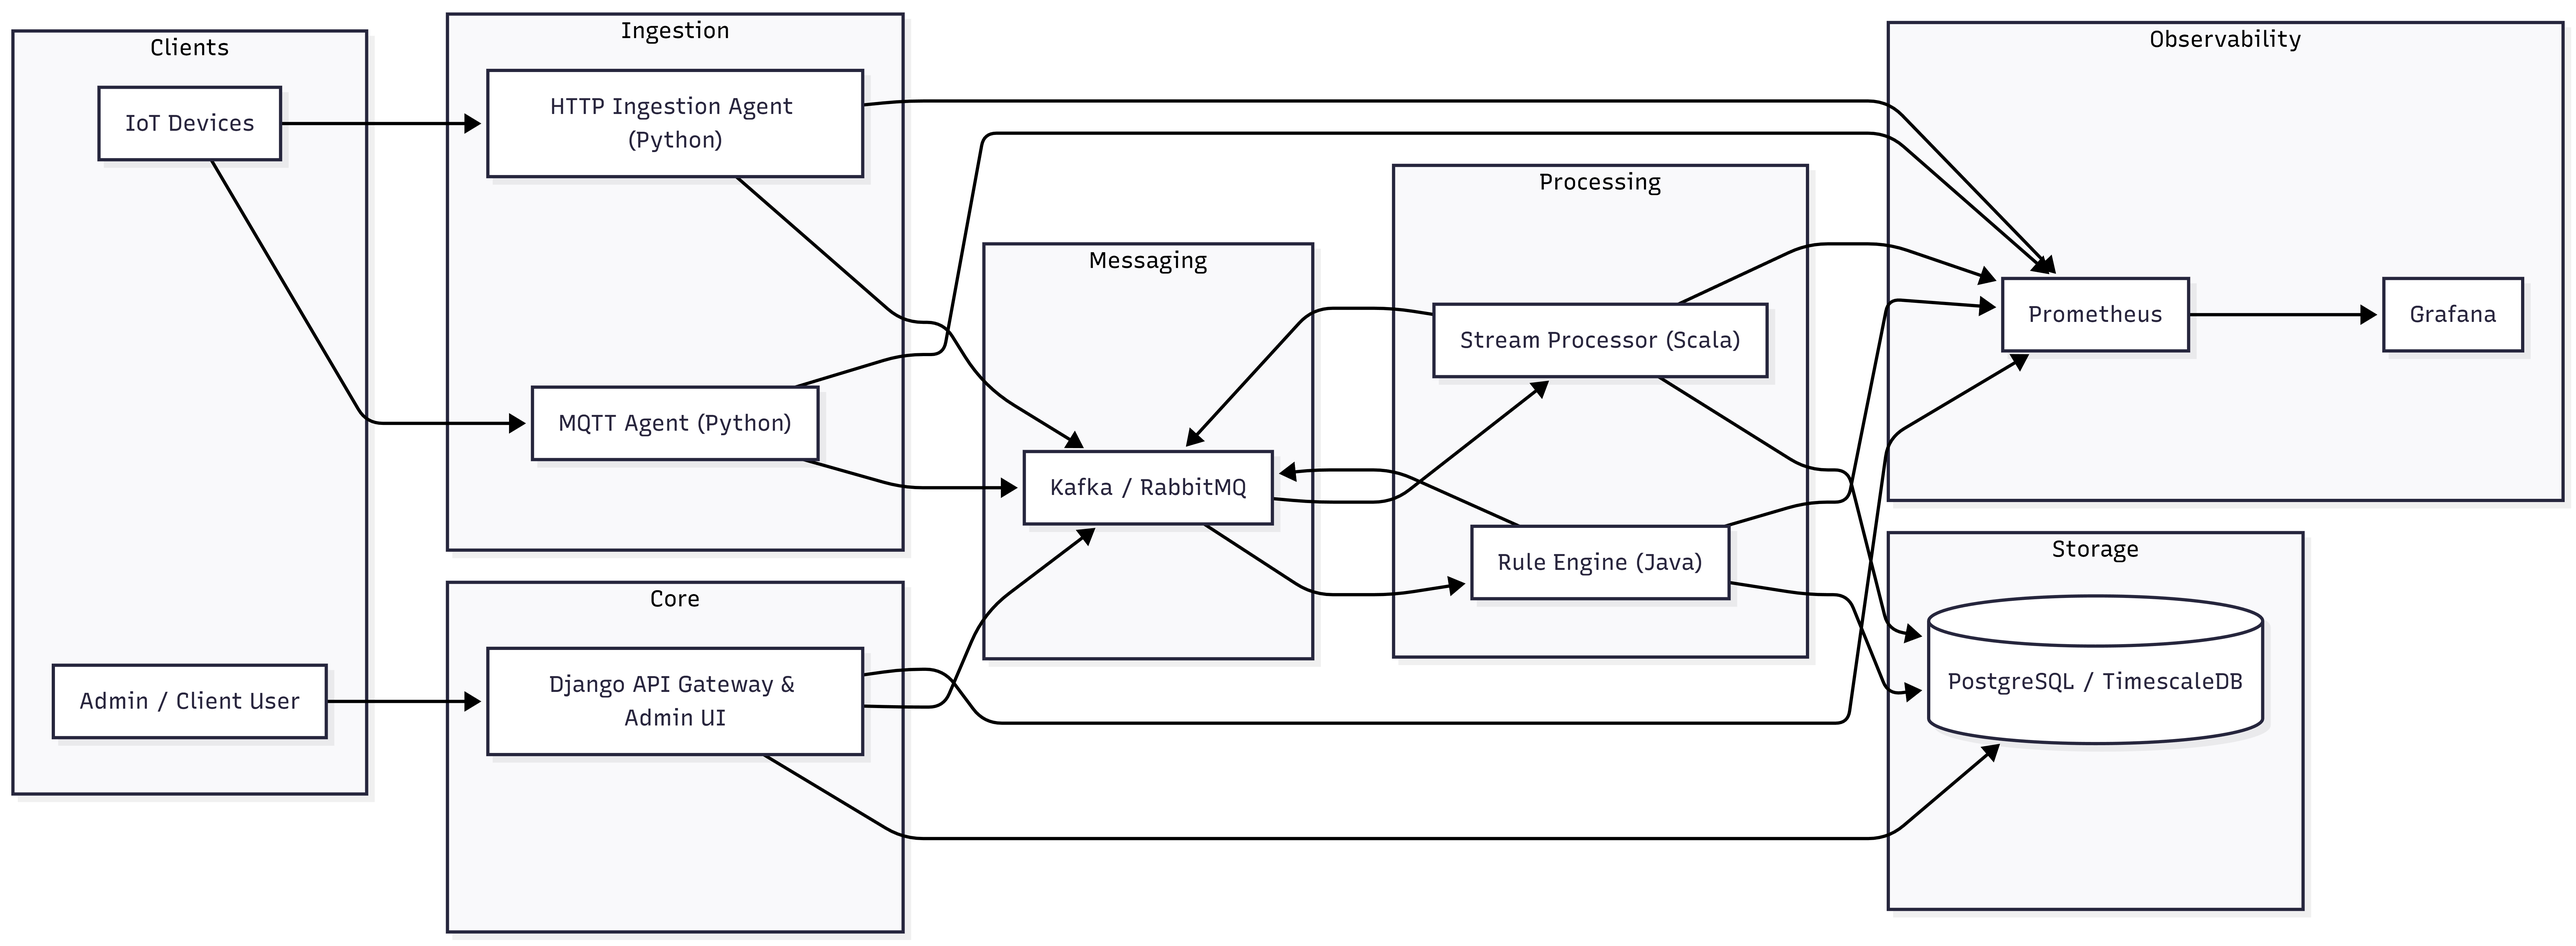
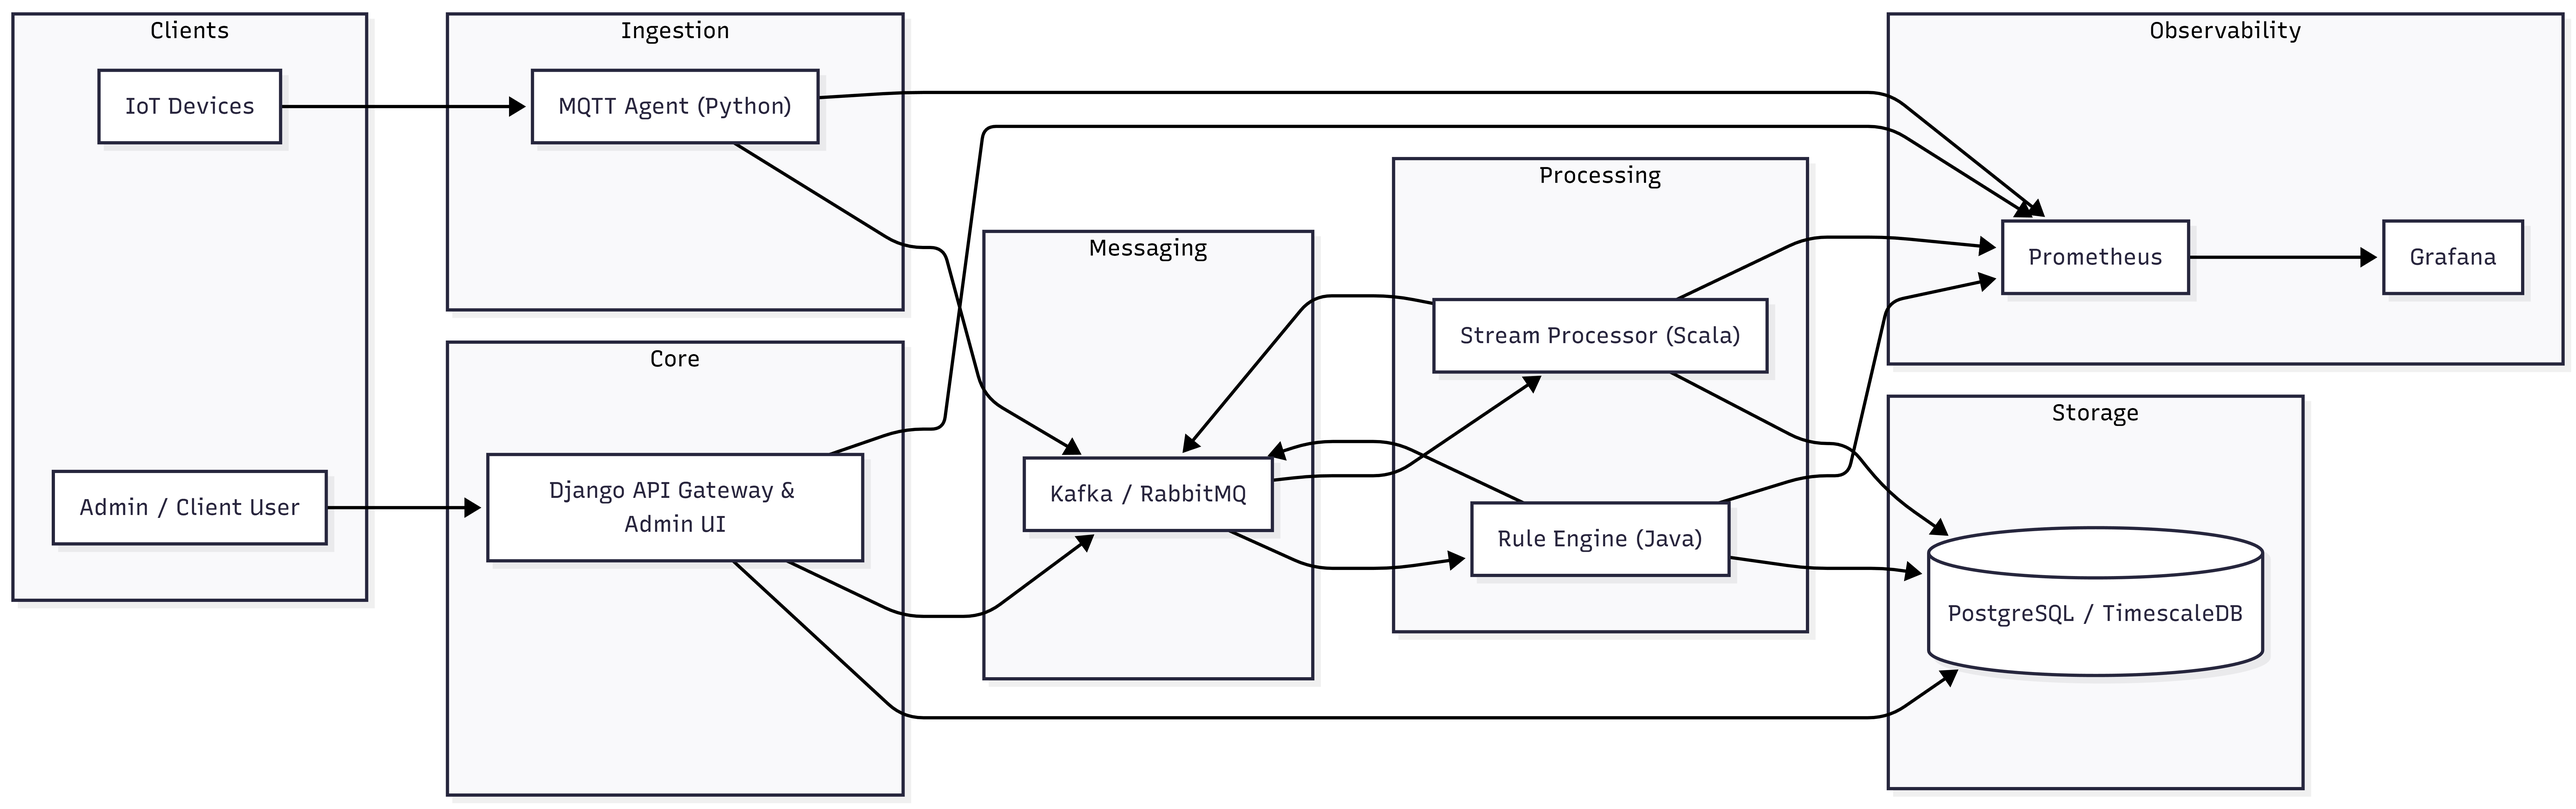
docs and img fix

diff --git a/docs/architecture.md b/docs/architecture.md
@@ -31,11 +31,11 @@ The MVP prioritizes **clarity, debuggability, and local reproducibility** over h
 
 #### Django API Gateway & Admin UI
 
-* Acts as the primary entry point for HTTP clients
+* Acts as the primary entry point for clients
 * Provides REST APIs for:
 
   * Device registry
-  * Telemetry ingestion (HTTP)
+  * Telemetry ingestion
   * Rule management
   * User and role management
 * Hosts the Django Admin UI for operational control
@@ -46,7 +46,6 @@ The MVP prioritizes **clarity, debuggability, and local reproducibility** over h
 * Accept telemetry via:
 
   * MQTT
-  * HTTP forwarding
 * Validate and normalize incoming telemetry payloads
 * Publish telemetry messages to the message broker
 
@@ -136,7 +135,6 @@ flowchart LR
 
     subgraph Ingestion
         MQTT["MQTT Agent (Python)"]
-        HTTPAgent["HTTP Ingestion Agent (Python)"]
     end
 
     subgraph Core
@@ -162,10 +160,8 @@ flowchart LR
     end
 
     Device --> MQTT
-    Device --> HTTPAgent
 
     MQTT --> Broker
-    HTTPAgent --> Broker
 
     AdminUser --> Django
 
@@ -183,7 +179,6 @@ flowchart LR
 
     Django --> Prom
     MQTT --> Prom
-    HTTPAgent --> Prom
     Rules --> Prom
     Stream --> Prom
 

diff --git a/docs/runbooks/troubleshooting.md b/docs/runbooks/troubleshooting.md
@@ -54,14 +54,13 @@ docker compose up -d --build
 
 ---
 
-## 3. MQTT / HTTP Telemetry Not Received
+## 3. MQTT Telemetry Not Received
 
 **Symptoms:** Telemetry agents do not forward device messages.
 **Diagnostics:**
 
 ```bash
 docker compose logs mqtt
-docker compose logs http_agent
 ```
 
 **Fix:**
